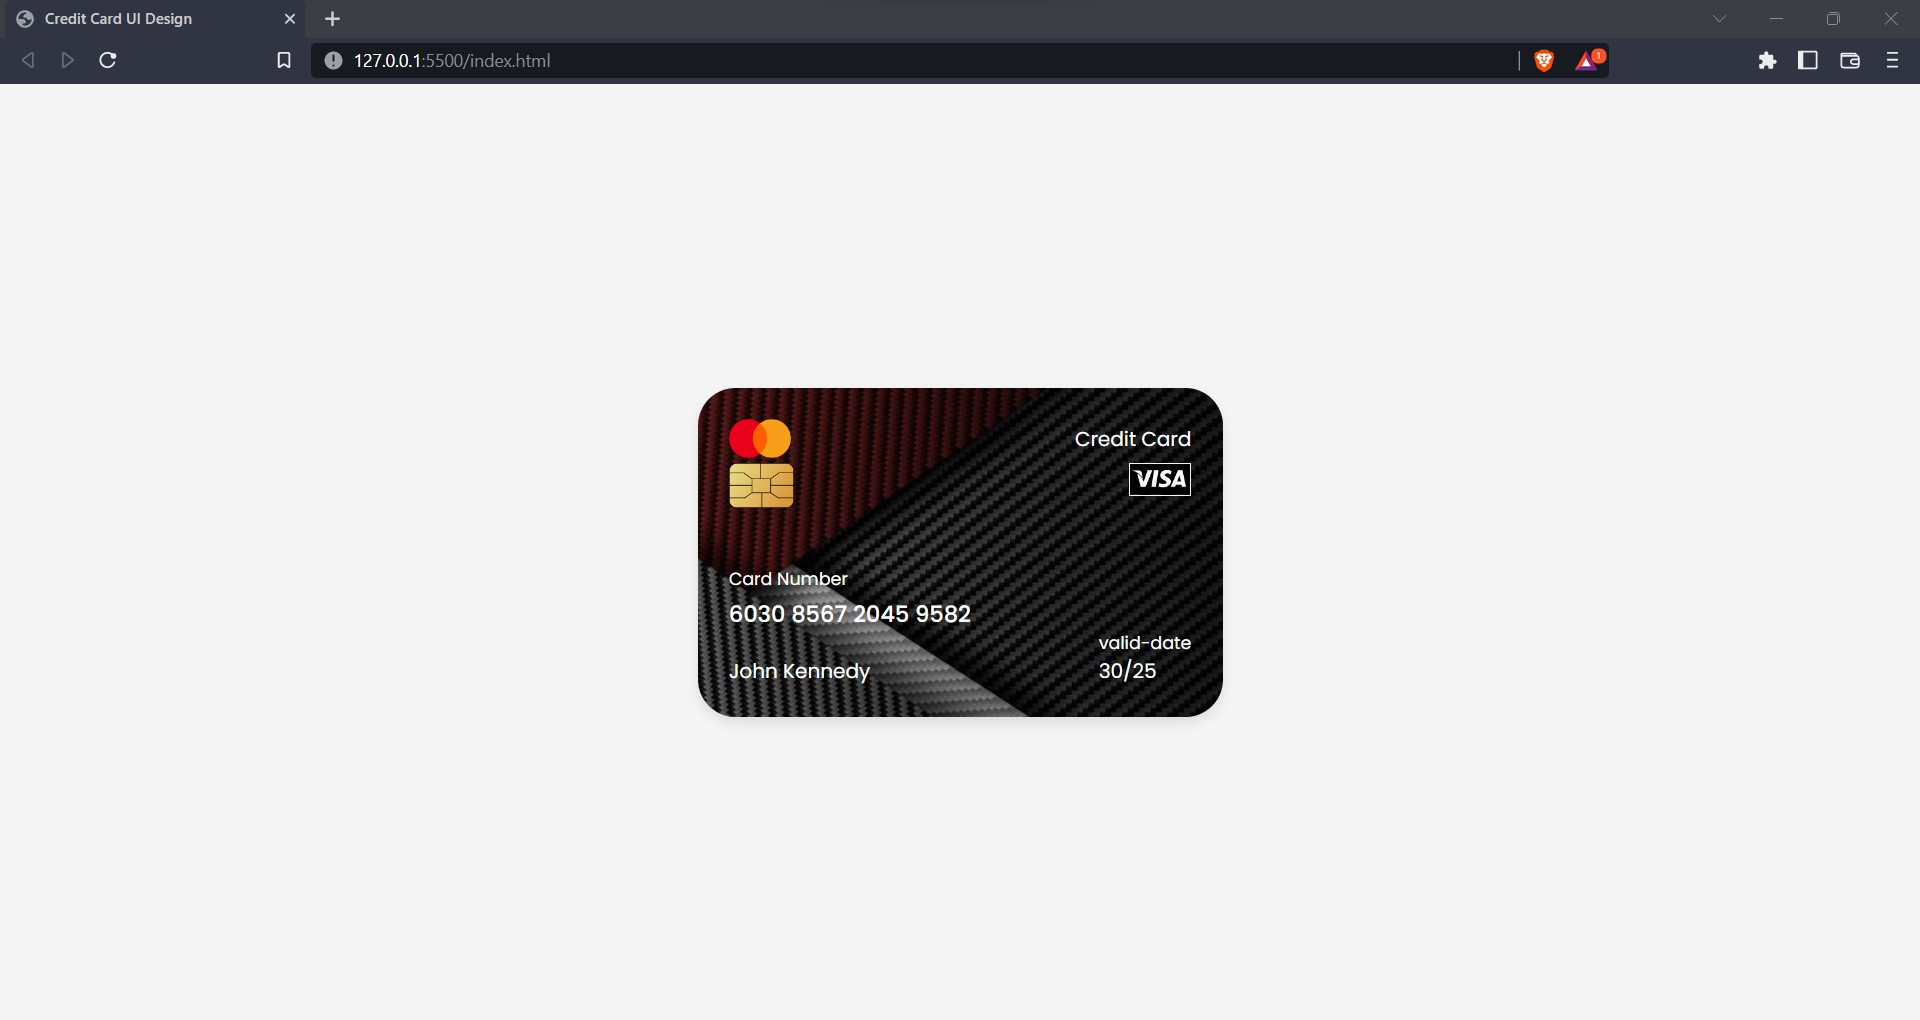
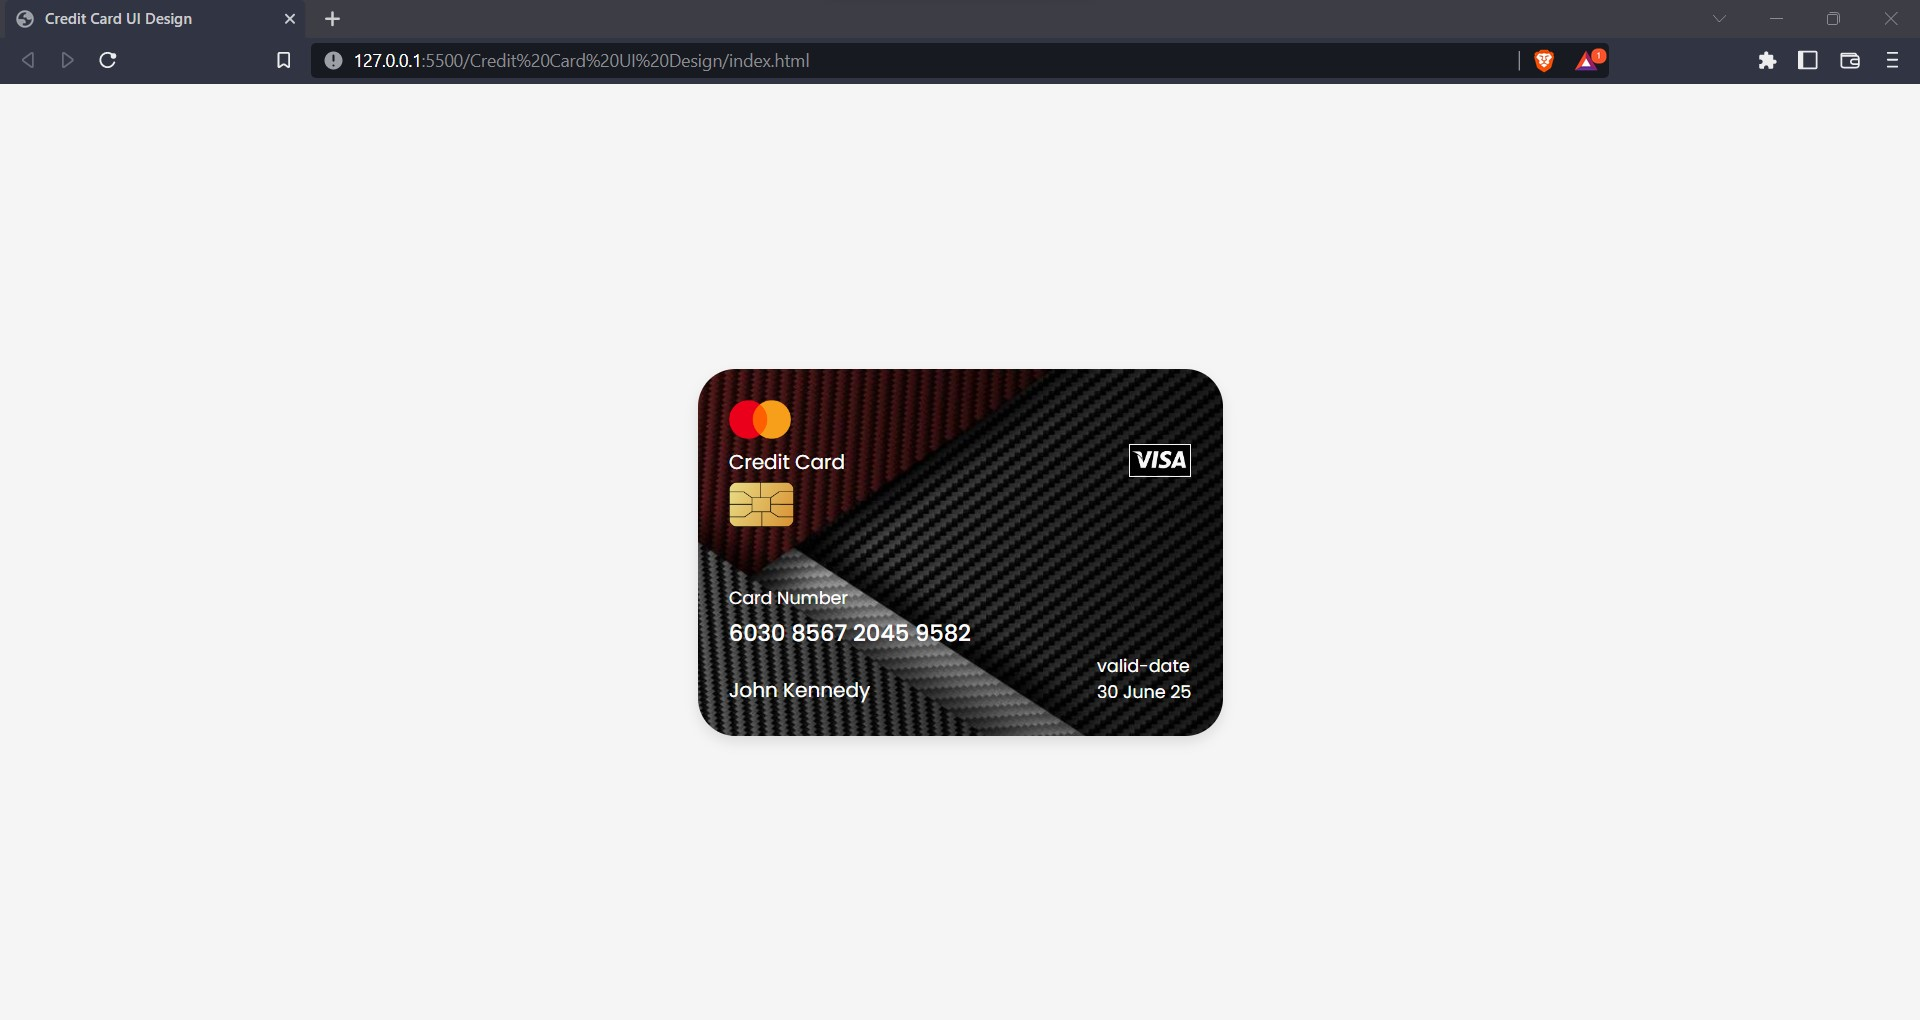
third commit

Changed region(s): [[0.3438, 0.3647, 0.6562, 0.7294], [0.25, 0.0304, 0.2812, 0.0912], [0.3125, 0.0304, 0.3438, 0.0608]]

diff --git a/Credit Card UI Design/index.html b/Credit Card UI Design/index.html
@@ -25,7 +25,7 @@
             </div>
             <div class="valid-date">
                 <h2>valid-date</h2>
-                <h1>30/25</h1>
+                <h3>30 June 25</h3>
             </div>
         </div>
     </div> 

diff --git a/Credit Card UI Design/style.css b/Credit Card UI Design/style.css
@@ -96,3 +96,10 @@ h1.name
     justify-content: space-between;
     align-items: flex-end;
 }
+
+h3
+{
+    font-size: 14px;
+    font-weight: 400;
+    color: white;
+}
